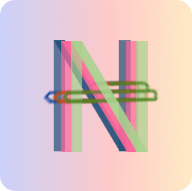
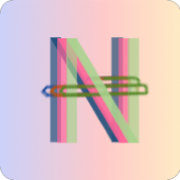
Enhancements

diff --git a/next.config.js b/next.config.js
@@ -1,5 +1,15 @@
 /** @type {import('next').NextConfig} */
 const nextConfig = {
+    images: {
+        remotePatterns: [
+            {
+                protocol: 'https',
+                hostname: 'static.narix.link',
+                port: '',
+                pathname: '/**',
+            },
+        ],
+    },
     experimental: {
         serverActions: true
     }

diff --git a/app/page.tsx b/app/page.tsx
@@ -77,6 +77,7 @@ export default async function Home() {
             src={floatingLogo}
             alt='Logo'
             width={50}
+            opacity={0.7}
             position={'absolute'}
             top={-25}
             left={'50%'}
